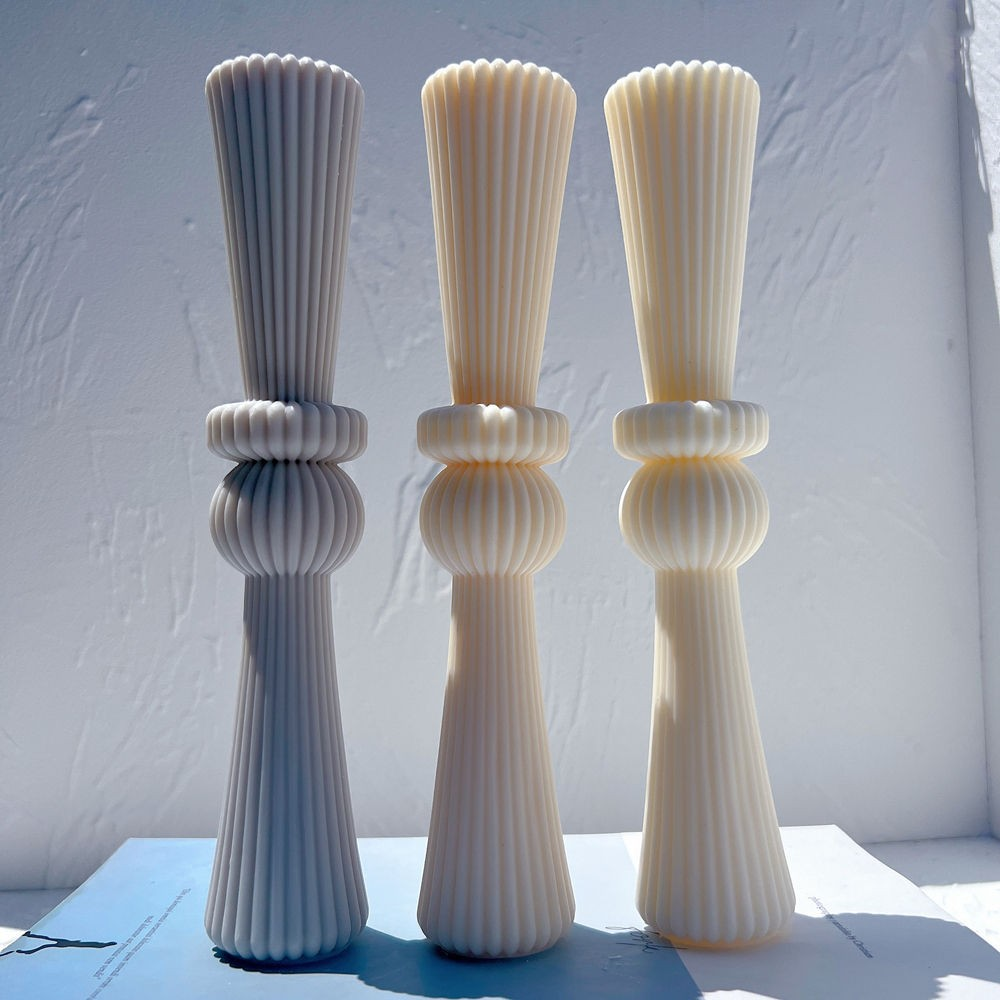
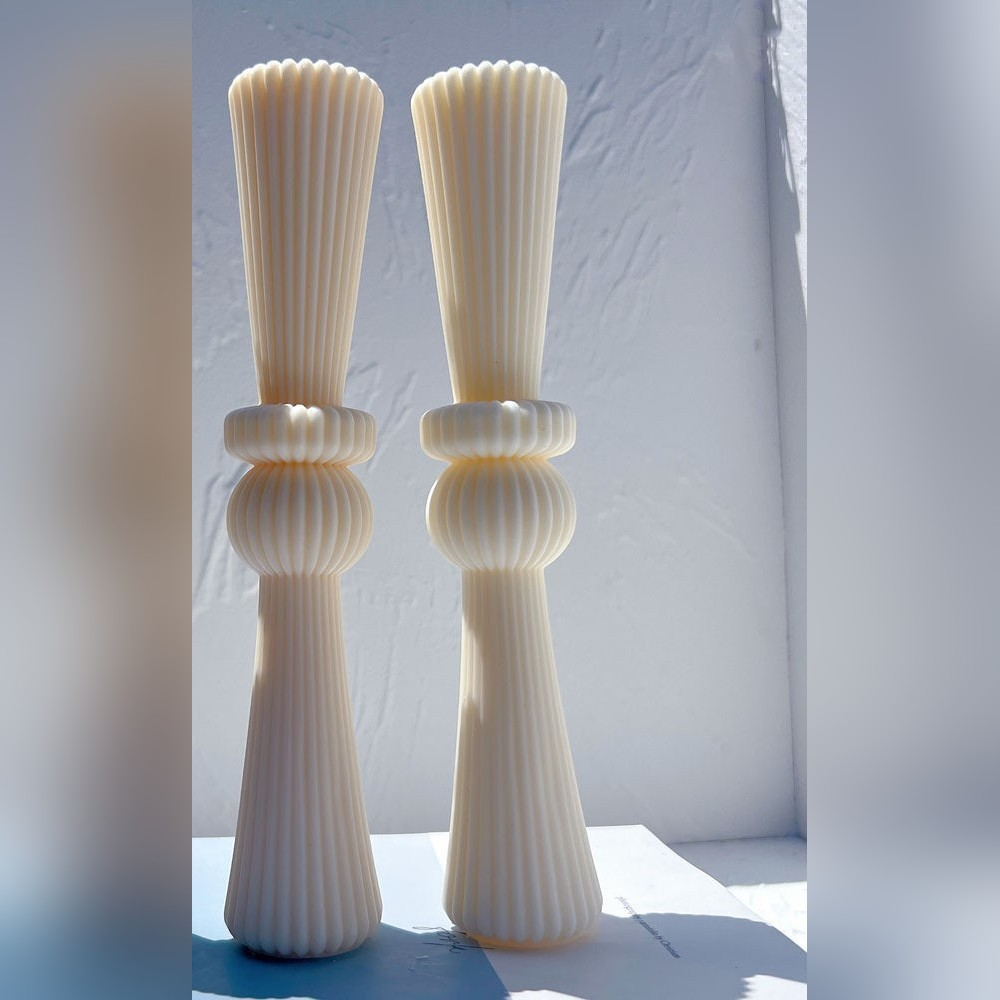
Crown Pillar: show two candles, not three

diff --git a/index.html b/index.html
@@ -419,7 +419,7 @@ const CANDLES = [
    desc:'Deep flutes run from a slender crown down through stacked, rounded tiers, so the light pools in every rib.',
    price:{soy:1199, paraffin:999}},
   {id:'pillar', name:'Crown Pillar', tag:'Tall, fluted and quietly grand.', photo:'assets/candles/pillar.jpg', mask:null,
-   desc:'A flared, fluted crown rises over a ringed collar and a rounded bead, then tapers to a fluted base. Striking in a row of three.',
+   desc:'A flared, fluted crown rises over a ringed collar and a rounded bead, then tapers to a fluted base. Striking as a pair.',
    price:{soy:1199, paraffin:999}},
   {id:'minaret', name:'Minaret Drop', tag:'A fluted teardrop on two soft beads.', photo:'assets/candles/minaret.jpg', mask:null,
    desc:'A tall, fluted teardrop rises from two stacked, ribbed beads, like the spire of a minaret catching evening light.',
